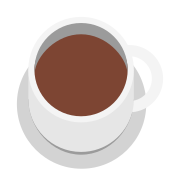
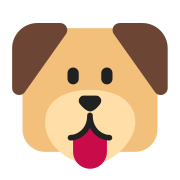
图标换成狗脸 🐶（Microsoft Fluent Emoji Flat，MIT）
用户指定从咖啡换成狗脸表情。图形仍是 Fluent Emoji 的 Flat 版，
换成 assets/Dog face/Flat/dog_face_flat.svg（U+1F436 DOG FACE）：
金色毛 #F3C07B + 深棕耳朵眼睛 #6D4534 + 浅色口鼻 #FFDEA7 + 红舌头 #CA0B4A。

- src/assets/favicon.svg 换图形；make-icons.sh 重新生成
  ico(16/32/48) + png 16/32 + apple-touch 180，并同步 public/ 下的根路径副本
  （已逐字节核对三份一致）
- 署名信息同步改到狗脸：public/third-party-licenses.txt 与 docs/THIRD-PARTY.md
  里的文件名与 emoji 码位（许可不变，仍是 Fluent Emoji 的 MIT）
- docs/DESIGN.md §14.E、BaseLayout 注释里的「一杯咖啡」一并改成「狗脸」
- icon-preview.html 重建为狗脸候选：Fluent Flat / Fluent Color / Twemoji /
  Noto / OpenMoji，按 16/32/48/128 渲染并模拟深色标签栏（本机文件，已 gitignore）

小尺寸实测：16px 色数 72、覆盖率 57.8%，是候选里最干净的实心图形；
产物主色 #F3C07B 与 #6D4534 已核对。

验证：clean build / astro check（0 warnings 0 hints）/ 55 项自检 / 主题哈希 /
公众号 18 项 全绿

diff --git a/docs/DESIGN.md b/docs/DESIGN.md
@@ -564,7 +564,7 @@ giscus 评论、深色模式、`body.list` 之外的页面一律窄栏。
 | 新增 `/archive/` 与 `/faq/` 两个页面 | 菜单需要落点。归档页用主题的 `.archive-*` 类（原样来自 `archive.css`）；FAQ 是一页手写问答 |
 | 分类页与关于页不在顶栏里 | 菜单只放用户列的 5 项。两页都没丢，从 FAQ 正文可以点进去，也都在 sitemap 里 |
 | 当前页标记改用参考站的写法：`.menu .active { border-bottom: 2px solid }` | 参考站跑的是较早的 PaperMod，它的 active 是「贴在文字下方的 2px 实线」；我们移植的这版改成了 `text-decoration` 缩写 + 0.3rem 偏移，观感明显更轻。行内元素加 `border-bottom` 落在外框底部，不会撑高行盒，所以覆盖掉主题那两行即可 |
-| 站点图标是一杯咖啡 | v4 那版是蓝色渐变圆角方块 + 字母 Y，属于已经被取消的强调色，在现在的单色主题里是唯一的彩色遗留。图形取自 Twemoji 的 U+2615（CC-BY 4.0），矢量 + 一整套光栅（ico 16/32/48、png 16/32、apple-touch 180），顺序照参考站。不用「SVG 里放 emoji 文本」那种做法：那要靠用户系统的彩色 emoji 字体，渲染结果不可控，而且彩色的 emoji 字体字形不能随便再分发。图标文件放 `src/assets/` 走 import 拿内容哈希，因为 `/favicon.svg` 这种固定路径会被浏览器长期缓存，上一版就因为缓存怎么改都看不到 |
+| 站点图标是一个狗脸（🐶） | v4 那版是蓝色渐变圆角方块 + 字母 Y，属于已经被取消的强调色，在现在的单色主题里是唯一的彩色遗留。图形取自 Twemoji 的 U+2615（CC-BY 4.0），矢量 + 一整套光栅（ico 16/32/48、png 16/32、apple-touch 180），顺序照参考站。不用「SVG 里放 emoji 文本」那种做法：那要靠用户系统的彩色 emoji 字体，渲染结果不可控，而且彩色的 emoji 字体字形不能随便再分发。图标文件放 `src/assets/` 走 import 拿内容哈希，因为 `/favicon.svg` 这种固定路径会被浏览器长期缓存，上一版就因为缓存怎么改都看不到 |
 | 停在首页时标记 Posts | 参考站的 Posts 直接指向 `/`，首页即文章列表，所以它的 active 落在 Posts 上。本站首页也是文章列表（欢迎卡片 + 最新 6 篇 + 全部文章），因此照它标记 Posts，站名保持不加标记 |
 
 另外主题的标签总览用 `ul.terms-tags`，分类总览因为要放一句话说明，
